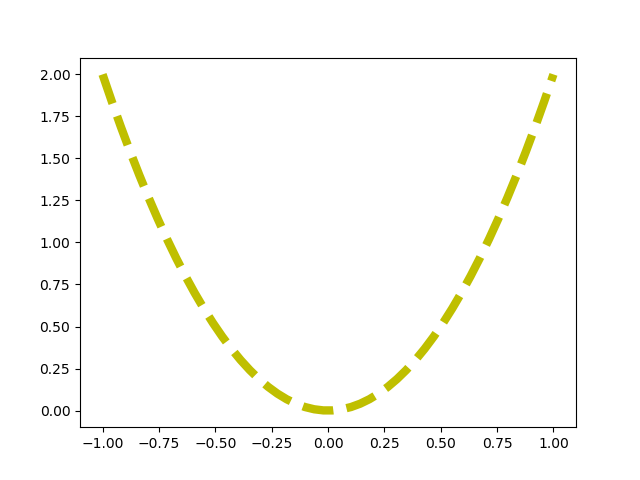
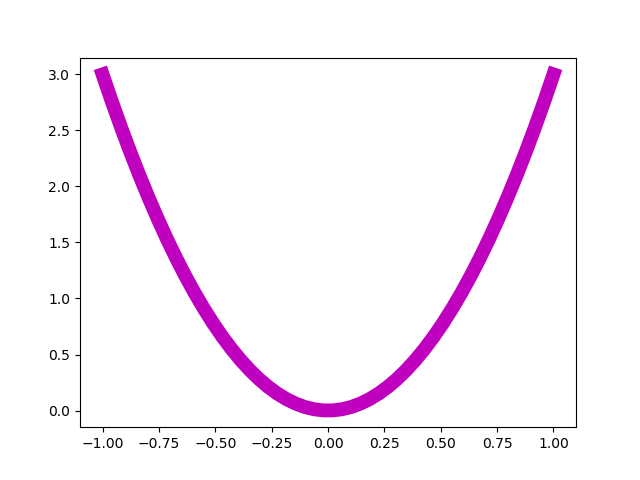
first commit

diff --git a/example.py b/example.py
@@ -2,7 +2,7 @@ import matplotlib.pyplot as plt
 import numpy as np
 
 x = np.linspace(-1, 1, 50)
-y = 2*x*x
+y = 3*x*x
 
-plt.plot(x, y,'y--',linewidth=6)
+plt.plot(x, y,'m-',linewidth=10)
 plt.savefig('chart.png')

diff --git a/README.md b/README.md
@@ -1,4 +1,4 @@
-# Quadratic Line Chart Adell 
+# Quadratic Line Chart Melva 
 
 Example for my book (matplotlib, python)
 
